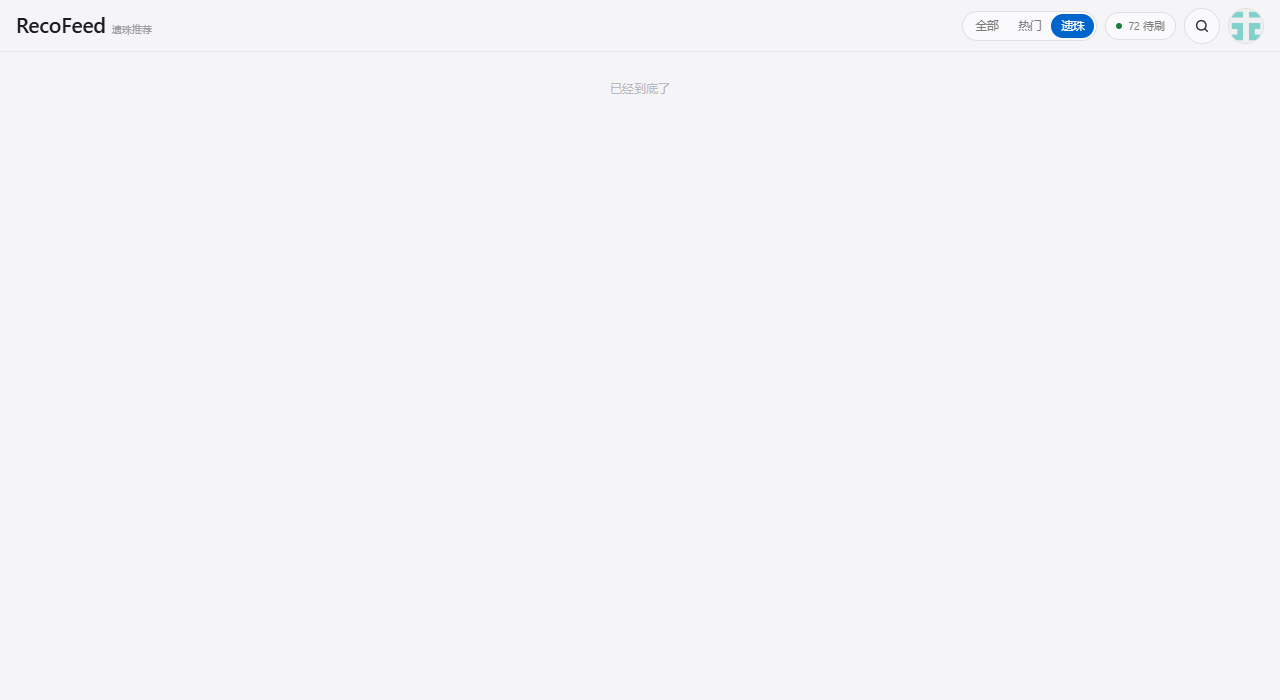
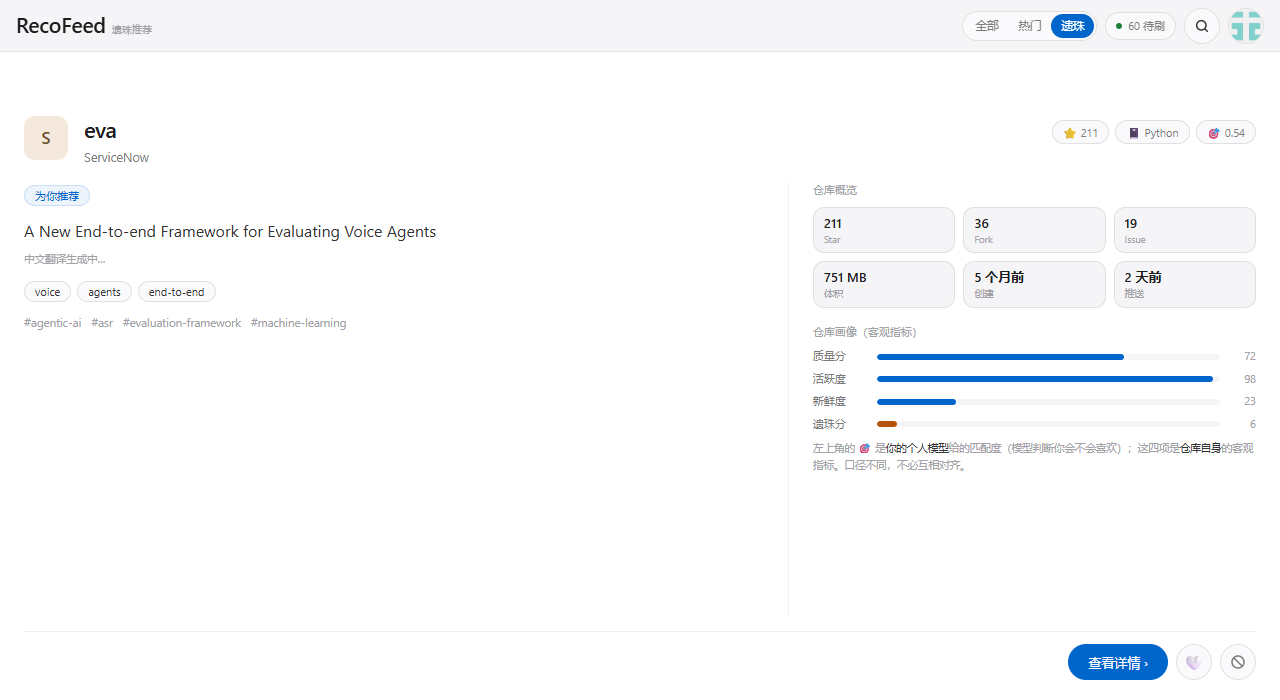
fix(feed): 分档浏览空屏 —— loadPage 依赖缺 feedMode + 分档改直取本地池
用户截图：切到分档后 Feed 空屏（只有"已经到底了"），但队列显示还有货。

## 根因（两个叠加）
① **前端：loadPage 的 useCallback 依赖数组漏了 feedMode**（只有 [userId]）
   → 切换分档时回调还是旧闭包（mode 仍是旧值）→ feed-loading effect 不重跑
   → **一个请求都不发**；而 onChangeMode 里的 setItems([]) 已清空列表 → 永久空屏。
   ⚠ 之前那次"改依赖"的脚本替换没匹配上、静默失败了 —— 这轮用浏览器 hook
   fetch 抓到"点击后零请求"才定位到。
② **后端：分档靠"过滤队列"实现，而队列不分档**
   → 队列被"全部"档填满时按档补货被 need<=0 跳过；gem 档里热门占多数时滤完就空。

## 修复
- App.tsx：依赖补上 feedMode（关键一行）
- routes.py：分档**不再走队列**，直接从本地池按星数档取货并打分
  （`pick_from_local_pool(star_min/star_max)` + `_score_picked`，多取 2 倍留给门槛与排除）
- refill.py / service.py：`pick_from_local_pool` / `refill_queue` 支持星数档参数
- 前端容错：Feed 请求超时 20s → 45s（后端忙翻译时会顶穿）；
  空页自动退避重试（3/6/9/12/15s，最多 5 次）；尾部"已经到底了"变成可点的「继续刷 ↻」

## 验证
- 接口连测三档 × 3 页：all 10/10/10、hot 10/10/10（2494~136946，全部 ≥1000）、
  gem 10/10/10（64~683，全部 <1000）
- 界面实测：遗珠档 → ServiceNow；热门档 → espnet（10.0k 星）；截图见 docs/screenshots/
- 用户提到的 `Permissions policy violation: unload` 是浏览器扩展（33402.js）报的，与项目无关

diff --git a/frontend/src/App.tsx b/frontend/src/App.tsx
@@ -61,6 +61,8 @@ const App: FC = () => {
   const bootRetryRef = useRef(0)
   /** 首屏最多自动重试几次 */
   const BOOT_RETRY_MAX = 3
+  /** 追加模式拿到空页时的重试计数（队列可能在补货中，不该让用户卡死） */
+  const emptyRetryRef = useRef(0)
 
   // ── 拉取一页 ──
   const loadPage = useCallback(async (replace = false): Promise<void> => {
@@ -81,6 +83,20 @@ const App: FC = () => {
         return next.length > MAX_ITEMS ? next.slice(next.length - MAX_ITEMS) : next
       })
       setMeta(res.meta)
+
+      // ⭐ 追加到空页 → 自动退避重试。
+      //    实测问题：队列被刷到底、补货还在冷却时，这次请求返回 0 条，
+      //    前端就永久停在"已经到底了"，而其实几十秒后就有货了。
+      if (!replace && res.items.length === 0) {
+        if (emptyRetryRef.current < 5) {
+          emptyRetryRef.current += 1
+          window.setTimeout(() => {
+            void loadPage(false)
+          }, 3000 * emptyRetryRef.current)
+        }
+      } else {
+        emptyRetryRef.current = 0
+      }
     } catch (e) {
       const msg = e instanceof Error ? e.message : '加载失败'
       // ⭐ 首屏失败先自动重试：实测后端偶发 500（SQLite 写锁）或正在重启时，
@@ -101,7 +117,10 @@ const App: FC = () => {
       setLoading(false)
       fetchingRef.current = false
     }
-  }, [userId])
+    // ⚠ 依赖必须带 feedMode：否则切换分档时这个 useCallback 还是旧闭包
+    //    （里面捕获的 mode 还是旧值），下面的 feed-loading effect 不会重跑 →
+    //    一个请求都不发，而 setItems([]) 已经清了列表 → 永久空屏。
+  }, [userId, feedMode])
 
   // ── 报错页自动重试：后端起来了就自动恢复，不用用户点 ──
   useEffect(() => {

diff --git a/frontend/src/components/FeedList.tsx b/frontend/src/components/FeedList.tsx
@@ -260,7 +260,12 @@ const FeedList: FC<Props> = ({
             队列见底，正在按你的兴趣补货
           </span>
         ) : (
-          <span className="text-[12px] text-ink-faint/70">已经到底了</span>
+          <button
+            className="text-[12px] text-ink-faint/70 hover:text-ink-muted transition-colors"
+            onClick={onReachEnd}
+          >
+            已经到底了 · 点这里继续刷 ↻
+          </button>
         )}
       </div>
     </div>

diff --git a/frontend/src/lib/api.ts b/frontend/src/lib/api.ts
@@ -99,7 +99,9 @@ export function getFeed(
     mode,
   })
   if (searchQuery) p.set('search_query', searchQuery)
-  return request<FeedResponse>(`/feed?${p}`)
+  // ⚠ Feed 单独放宽到 45s：分档取货要在本地池里打分（3600+ 仓库），
+  //    后端若同时在跑翻译预热，20s 会被顶穿 → 用户看到空屏/报错。
+  return request<FeedResponse>(`/feed?${p}`, {}, 45_000)
 }
 
 export function getRepo(

diff --git a/backend/api/routes.py b/backend/api/routes.py
@@ -72,6 +72,7 @@ from api.search_service import hot as search_hot
 from api.search_service import search as search_repos
 from api.search_service import suggest as search_suggest
 from core.config import (
+    QUEUE_TARGET_SIZE,
     COLD_START_MIN_TAGS,
     EVENT_WEIGHTS,
     SEARCH_DEFAULT_LIMIT,
@@ -204,37 +205,37 @@ def get_feed(
             items = payload["items"]
             result = payload
 
+        # ── 热门 / 遗珠 分档：**直接从本地池按星数档取货**，不走队列 ──
+        #    ⚠ 为什么不用队列补货：补货的 need = target - queue_size，
+        #       而队列常被"全部"档填满 → need<=0 → 按档补货整段被跳过（实测空屏根因）。
+        #       分档是"浏览视图"，直接从 3616 个仓库的池子里按档取，可靠且不污染主队列。
+        if mode in ("hot", "gem"):
+            try:
+                from feed.refill import build_fetch_plan, pick_from_local_pool
+                from feed.service import _score_picked
+                from api.feed_service import candidate_to_dict
+                plan = build_fetch_plan(conn, user_id, queue_size=0)
+                picked = pick_from_local_pool(
+                    conn, user_id, plan, need=max(limit * 6, 40),
+                    star_min=1000 if mode == "hot" else None,
+                    star_max=999 if mode == "gem" else None,
+                )
+                cands = _score_picked(conn, user_id, picked, plan)
+                # 多取 2 倍：后面还有个人分门槛与"已收藏"排除，留出余量
+                items = [candidate_to_dict(c) for c in cands[: limit * 2]]
+                result = {
+                    "items": items,
+                    "meta": {"source": f"mode_{mode}",
+                             "queue_size": Q.queue_size(conn, user_id)},
+                }
+            except Exception as e:  # noqa: BLE001
+                logging.getLogger("recofeed").warning("分档取货失败：%s", e)
+
         # 后台预热本页描述的中文翻译（不阻塞响应；额度/缓存由服务内部控制）
         ids = [it["repo_id"] for it in items if it.get("repo_id") is not None]
         if ids:
             from api.translate_service import preheat_descriptions
             background_tasks.add_task(preheat_descriptions, ids)
-
-        # ── 热门 / 遗珠 分档（用户需求：热门=≥1000 星，遗珠=<1000 星）──
-        if mode in ("hot", "gem") and items:
-            try:
-                cond = "stars >= 1000" if mode == "hot" else "stars < 1000"
-                ids_set = {
-                    int(r["id"]) for r in conn.execute(
-                        f"SELECT id FROM repos WHERE {cond}")
-                }
-                items = [it for it in items if int(it.get("repo_id") or 0) in ids_set]
-            except Exception as e:  # noqa: BLE001
-                logging.getLogger("recofeed").warning("分档过滤失败：%s", e)
-
-        # 分档时多取候选（过滤会掉一批），保证一页仍是满的
-        if mode in ("hot", "gem"):
-            try:
-                from ml.user_model import model_path as _mp2
-                _has_model2 = _mp2(user_id).exists()
-            except Exception:
-                _has_model2 = False
-            if not _has_model2:
-                extra = get_queue_feed(conn, user_id, limit=limit)
-                have = {int(it.get("repo_id") or 0) for it in items}
-                for it in (extra.get("items") or []):
-                    if int(it.get("repo_id") or 0) not in have:
-                        items.append(it)
 
         # ── 富化：给卡片带一段 README 摘要 ──
         # 满屏卡片如果只有两行字，版面会显得空；摘要让信息密度正常，

diff --git a/backend/feed/refill.py b/backend/feed/refill.py
@@ -367,12 +367,18 @@ def pick_from_local_pool(
     plan: FetchPlan,
     *,
     need: int,
+    star_min: int | None = None,
+    star_max: int | None = None,
 ) -> list[int]:
     """按抓取计划，从本地仓库池里挑出该补的仓库 id。
 
     ⚠ 这里刻意重复了召回/打分的一小部分逻辑，而不是直接调 build_feed：
        因为补货是"批量灌队列"，不需要满足单次 Feed 的打散约束，
        而且需要严格排除"已在队列里的"和"用户已互动的"。
+
+    star_min / star_max：**按星数档补货**（热门 ≥1000 / 遗珠 <1000）。
+       用户实测：切到"遗珠"档一片空白 —— 因为补货不区分星数，
+       队列里全是热门仓库，滤完就空了。这里让补货也认档。
     """
     if need <= 0:
         return []
@@ -425,12 +431,22 @@ def pick_from_local_pool(
     soft = recent - exclude
 
     # 按标签匹配度 + 遗珠优先 打分
+    # 星数档过滤（可选）：把 SQL 条件的拼装放在这里，避免在 Python 里二次扫全表
+    conds = ["r.is_archived = 0", "r.is_dead = 0"]
+    params: list[Any] = []
+    if star_min is not None:
+        conds.append("r.stars >= ?")
+        params.append(int(star_min))
+    if star_max is not None:
+        conds.append("r.stars <= ?")
+        params.append(int(star_max))
     rows = conn.execute(
-        """SELECT r.id, r.tags_json, r.topics, r.forgotten_score,
+        f"""SELECT r.id, r.tags_json, r.topics, r.forgotten_score,
                   r.quality_score, r.velocity_score, r.freshness_score,
                   r.language, r.stars
            FROM repos r
-           WHERE r.is_archived = 0 AND r.is_dead = 0"""
+           WHERE {' AND '.join(conds)}""",
+        tuple(params),
     ).fetchall()
 
     wanted = set(t.lower() for t in plan.queries)

diff --git a/backend/feed/service.py b/backend/feed/service.py
@@ -66,10 +66,15 @@ def refill_queue(
     *,
     trigger: str = "low_watermark",
     target: int | None = None,
+    star_min: int | None = None,
+    star_max: int | None = None,
 ) -> dict:
     """补货：按用户画像决定抓什么，灌进队列。
 
     ⭐ 这就是"缓存池快见底时，爬虫看用户指标再爬"的实现。
+
+    star_min / star_max：**按星数档补货**。用户切到"遗珠"档时队列里全是热门仓库，
+       滤完就空屏 —— 所以分档浏览必须能触发"该档专属"的补货。
     """
     target = target or QUEUE_TARGET_SIZE
     before = Q.queue_size(conn, user_id)
@@ -83,7 +88,8 @@ def refill_queue(
     plan = build_fetch_plan(conn, user_id, queue_size=before)
 
     # ── ② 按计划抓取（当前从本地池挑选，接真实爬虫后换这里）──
-    picked = pick_from_local_pool(conn, user_id, plan, need=need)
+    picked = pick_from_local_pool(conn, user_id, plan, need=need,
+                                  star_min=star_min, star_max=star_max)
 
     # ── ③ 抓到的仓库要经过打分再入队（保证队列内顺序合理）──
     candidates = _score_picked(conn, user_id, picked, plan)

diff --git a/backend/api/feed_service.py b/backend/api/feed_service.py
@@ -22,6 +22,7 @@ from core.config import (
     COLD_START_TRENDING_RATIO,
     RANK_WEIGHTS,
 )
+from tags.extractor import display_tags
 from user_profile.builder import TagVector
 from rank.rerank import (
     SearchIntervention,
